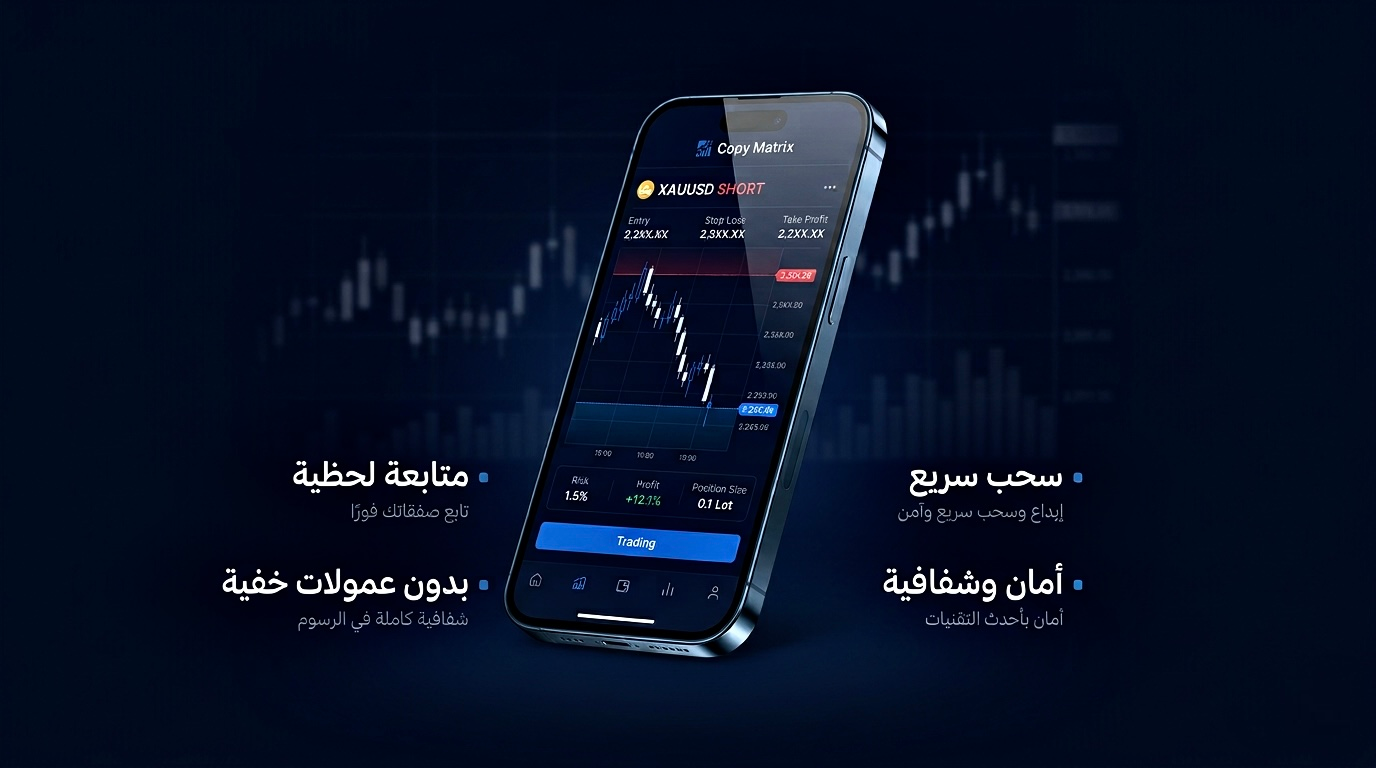
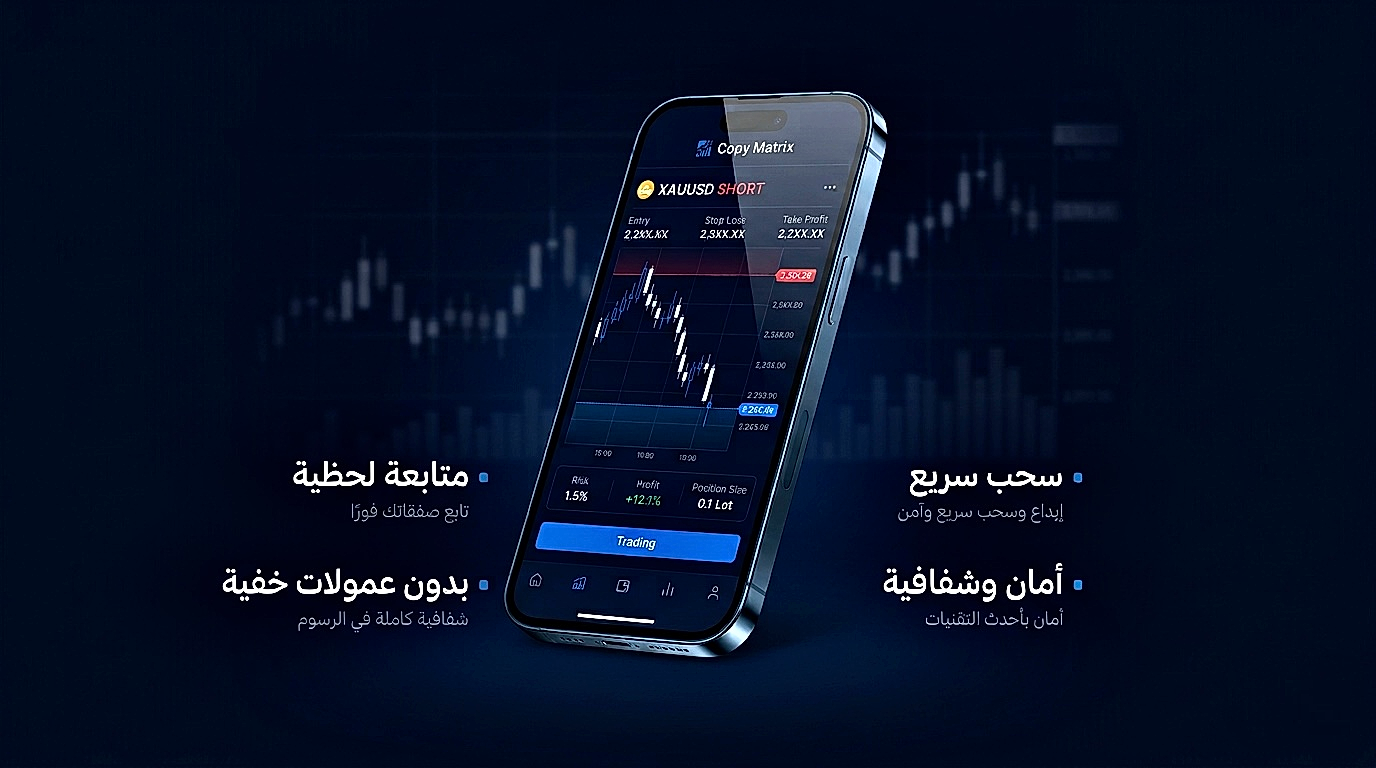
Blend hero image edges into page background and sharpen the phone
Re-adds a light edge fade mask (tuned to not clip the feature labels
near the edges) so the image no longer reads as a separate boxed
graphic, and sharpens/boosts the source image for a clearer phone.

diff --git a/src/app/page.tsx b/src/app/page.tsx
@@ -305,7 +305,7 @@ export default async function Home() {
             </span>
           ))}
         </div>
-        <div className="mx-auto w-full max-w-3xl overflow-hidden rounded-xl border border-border">
+        <div className="mx-auto w-full max-w-4xl">
           <Image
             src="/hero-app-preview.png"
             alt="لقطة من تطبيق Copy Matrix تعرض متابعة صفقة وميزات المنصة"
@@ -313,6 +313,14 @@ export default async function Home() {
             height={768}
             priority
             className="h-auto w-full object-cover"
+            style={{
+              maskImage:
+                "linear-gradient(to bottom, transparent 0%, black 6%, black 94%, transparent 100%), linear-gradient(to right, transparent 0%, black 5%, black 95%, transparent 100%)",
+              maskComposite: "intersect",
+              WebkitMaskImage:
+                "linear-gradient(to bottom, transparent 0%, black 6%, black 94%, transparent 100%), linear-gradient(to right, transparent 0%, black 5%, black 95%, transparent 100%)",
+              WebkitMaskComposite: "source-in",
+            }}
           />
         </div>
         <div className="mx-auto -mt-6 grid w-full max-w-4xl grid-cols-1 gap-x-12 gap-y-7 px-4 text-start sm:-mt-10 sm:grid-cols-2">
